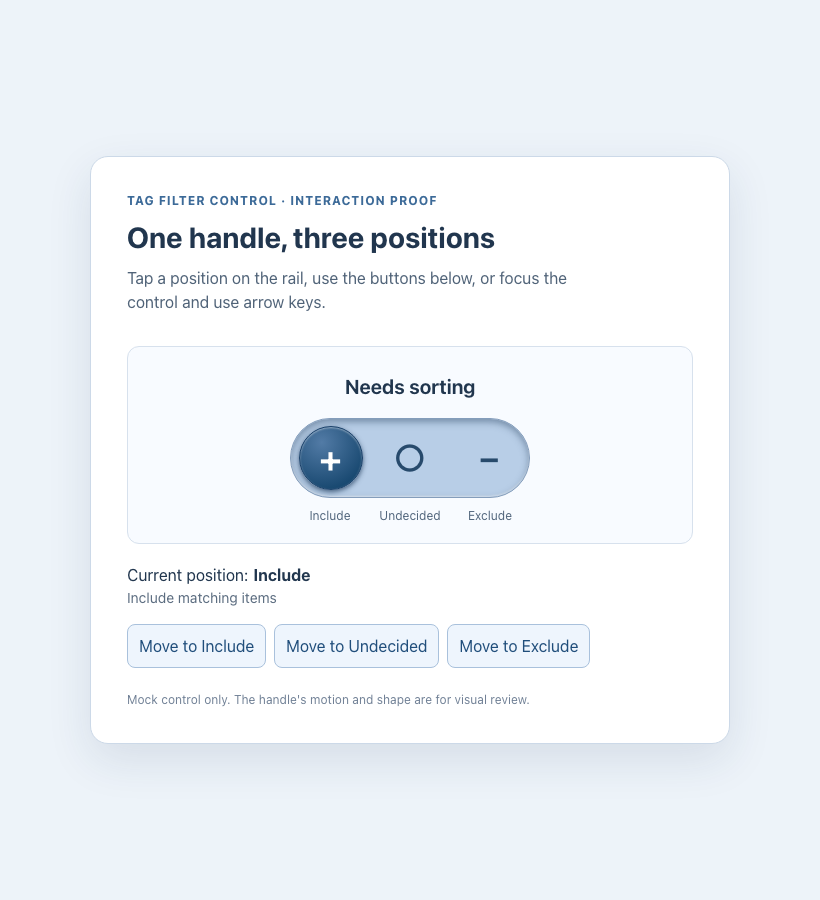
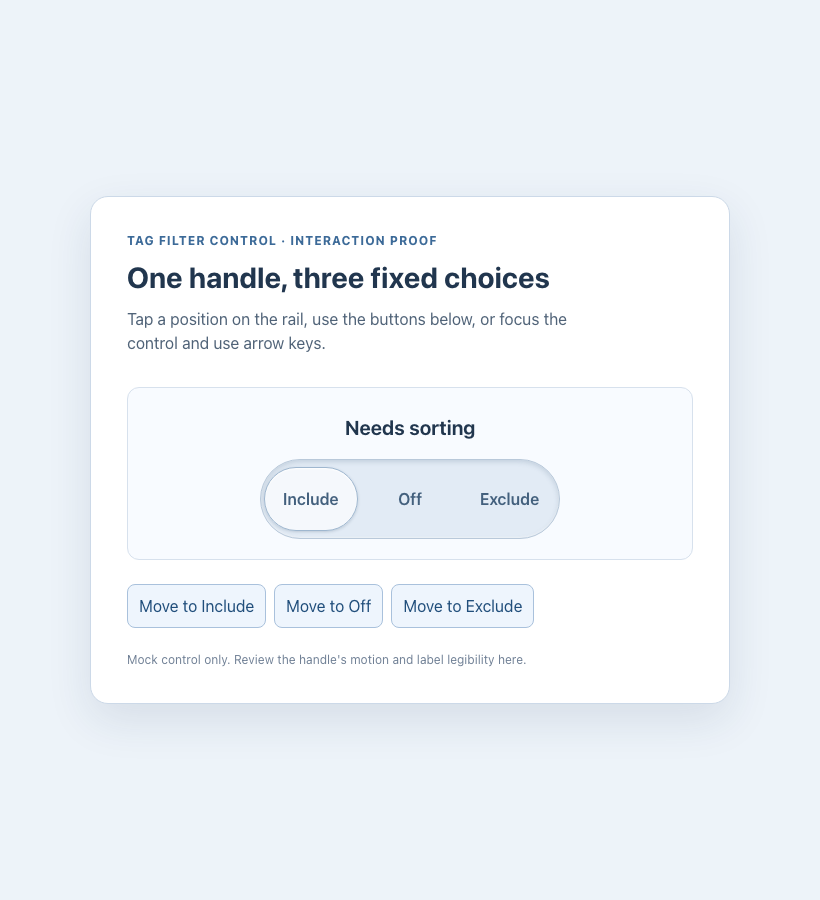
refactor(search): quiet tri-state rail with fixed labels

Changed region(s): [[0.1524, 0.4044, 0.7012, 0.7467], [0.1524, 0.2178, 0.7012, 0.4044], [0.0915, 0.7778, 0.9146, 0.84]]

diff --git a/meteor-app/imports/ui/TriStateTagToggle.css b/meteor-app/imports/ui/TriStateTagToggle.css
@@ -1,8 +1,10 @@
-/* A single dark handle travels through three detents in a recessed blue rail. */
+/* A quiet translucent capsule moves over fixed labels in one recessed rail. */
 .tri-state-rail {
-    --rail-width: 132px;
+    --rail-width: 168px;
     --rail-height: 44px;
-    --handle-size: 34px;
+    --handle-width: 52px;
+    --handle-height: 34px;
+    --label-size: 10px;
     position: relative;
     display: grid;
     grid-template-columns: repeat(3, minmax(0, 1fr));
@@ -11,42 +13,40 @@
     height: var(--rail-height);
     padding: 0;
     isolation: isolate;
-    border: 1px solid #849dbb;
+    border: 1px solid #b9c9da;
     border-radius: 999px;
-    background: #b8cee7;
-    box-shadow: inset 0 3px 7px #314b6980, inset 0 -1px 2px #fff9;
+    background: #e2ebf5;
+    box-shadow: inset 0 2px 5px #58718f38, inset 0 -1px 2px #fff9;
 }
 .tri-state-rail-large {
-    --rail-width: 240px;
+    --rail-width: 300px;
     --rail-height: 80px;
-    --handle-size: 64px;
+    --handle-width: 94px;
+    --handle-height: 64px;
+    --label-size: 16px;
 }
 .tri-state-handle {
     position: absolute;
     z-index: 1;
     top: 50%;
-    inset-inline-start: calc((100% / 3 - var(--handle-size)) / 2);
+    inset-inline-start: calc((100% / 3 - var(--handle-width)) / 2);
     display: grid;
     place-items: center;
-    width: var(--handle-size);
-    height: var(--handle-size);
+    width: var(--handle-width);
+    height: var(--handle-height);
     transform: translateY(-50%);
-    border: 1px solid #1b416a;
-    border-radius: 50%;
-    background: radial-gradient(circle at 35% 25%, #527ba6, #194971 76%);
-    box-shadow: 0 2px 5px #102c4db3, inset 0 1px 2px #ffffff7a;
-    color: #fff;
-    font-size: calc(var(--handle-size) * 0.58);
-    font-weight: 600;
-    line-height: 1;
+    border: 1px solid #9fb7cf;
+    border-radius: 999px;
+    background: #ffffffa8;
+    box-shadow: 0 1px 3px #344f6a38, inset 0 1px 2px #fff;
     pointer-events: none;
     transition: inset-inline-start 260ms cubic-bezier(0.2, 0.7, 0.2, 1);
 }
 .tri-state-rail[data-state='neutral'] .tri-state-handle {
-    inset-inline-start: calc(50% - var(--handle-size) / 2);
+    inset-inline-start: calc(50% - var(--handle-width) / 2);
 }
 .tri-state-rail[data-state='exclude'] .tri-state-handle {
-    inset-inline-start: calc(100% - (100% / 3 + var(--handle-size)) / 2);
+    inset-inline-start: calc(100% - (100% / 3 + var(--handle-width)) / 2);
 }
 .tri-state-position {
     position: relative;
@@ -67,14 +67,11 @@
     cursor: pointer;
 }
 .tri-state-position > span {
-    color: #274a6c;
-    font-size: calc(var(--handle-size) * 0.53);
+    color: #43607d;
+    font-size: var(--label-size);
     font-weight: 600;
     line-height: 1;
     pointer-events: none;
-}
-.tri-state-position:has(input:checked) > span {
-    opacity: 0;
 }
 .tri-state-rail:has(input:focus-visible) {
     outline: 3px solid #f5aa2a;

diff --git a/meteor-app/imports/ui/TriStateTagToggle.stories.tsx b/meteor-app/imports/ui/TriStateTagToggle.stories.tsx
@@ -9,36 +9,20 @@ interface Props {
     initialState: TagFilterState;
 }
 
-const meaning: Record<TagFilterState, string> = {
-    include: 'Include matching items',
-    neutral: 'Do not filter by this tag',
-    exclude: 'Exclude matching items',
-};
-
 const TriStateToggleDemo = ({ initialState }: Props): React.ReactElement => {
     const [state, setState] = useState<TagFilterState>(initialState);
     return (
         <main className="tri-demo" data-testid="tri-state-toggle-proof">
             <section className="tri-demo-card" aria-label="Three-position tag toggle demonstration">
                 <p className="tri-demo-eyebrow">TAG FILTER CONTROL · INTERACTION PROOF</p>
-                <h1>One handle, three positions</h1>
+                <h1>One handle, three fixed choices</h1>
                 <p className="tri-demo-intro">
                     Tap a position on the rail, use the buttons below, or focus the control and use arrow keys.
                 </p>
                 <div className="tri-demo-stage">
                     <div className="tri-demo-tag">Needs sorting</div>
                     <TriStateTagToggle name="Needs sorting" state={state} onChange={setState} large />
-                    <div className="tri-demo-legends" aria-hidden="true">
-                        <span>Include</span>
-                        <span>Undecided</span>
-                        <span>Exclude</span>
-                    </div>
                 </div>
-                <p className="tri-demo-state" aria-live="polite">
-                    Current position:{' '}
-                    <strong>{state === 'neutral' ? 'Undecided' : state === 'include' ? 'Include' : 'Exclude'}</strong>
-                    <span>{meaning[state]}</span>
-                </p>
                 <div className="tri-demo-actions" aria-label="Move the handle">
                     <button
                         type="button"
@@ -54,7 +38,7 @@ const TriStateToggleDemo = ({ initialState }: Props): React.ReactElement => {
                             setState('neutral');
                         }}
                     >
-                        Move to Undecided
+                        Move to Off
                     </button>
                     <button
                         type="button"
@@ -65,7 +49,9 @@ const TriStateToggleDemo = ({ initialState }: Props): React.ReactElement => {
                         Move to Exclude
                     </button>
                 </div>
-                <p className="tri-demo-note">Mock control only. The handle's motion and shape are for visual review.</p>
+                <p className="tri-demo-note">
+                    Mock control only. Review the handle's motion and label legibility here.
+                </p>
             </section>
         </main>
     );

diff --git a/tests/e2e/storybook/TriStateTagToggle.spec.ts b/tests/e2e/storybook/TriStateTagToggle.spec.ts
@@ -16,6 +16,8 @@ for (const viewport of [
             const rail = page.getByRole('radiogroup', { name: 'Filter Needs sorting' });
             await expect(rail).toHaveAttribute('data-state', state === 'undecided' ? 'neutral' : state);
             await expect(page.getByRole('radio', { checked: true })).toHaveCount(1);
+            await expect(rail.locator('.tri-state-handle')).toHaveText('');
+            await expect(rail.locator('.tri-state-position > span')).toHaveText(['Include', 'Off', 'Exclude']);
             expect(await page.evaluate(() => document.documentElement.scrollWidth - innerWidth)).toBeLessThanOrEqual(1);
             await page.screenshot({ path: testInfo.outputPath(`${state}-${viewport.name}.png`), fullPage: true });
         });
@@ -41,6 +43,7 @@ test('one handle travels through the rail for direct end-to-end changes', async 
     expect(early).toBeLessThan(midway);
     expect(midway).toBeLessThan(right);
     expect(right).toBeGreaterThan(center + 35);
+    await expect(page.locator('.tri-state-position > span')).toHaveText(['Include', 'Off', 'Exclude']);
 
     await page.getByRole('radio', { name: 'No filter for Needs sorting' }).click();
     await page.waitForTimeout(300);
@@ -63,6 +66,18 @@ test('arrow keys change the same handle and reduced motion removes transition', 
     expect(duration).toBe('0s');
     await page.keyboard.press('ArrowRight');
     await expect(page.getByRole('radio', { name: 'Exclude Needs sorting' })).toBeChecked();
+});
+
+test('logical rail positions and the handle mirror in right-to-left layout', async ({ page }) => {
+    await page.goto(story('undecided'));
+    await page.getByTestId('tri-state-toggle-proof').evaluate((element) => element.setAttribute('dir', 'rtl'));
+    await page.getByRole('button', { name: 'Move to Include' }).click();
+    await page.waitForTimeout(300);
+    const includeX = await handleX(page);
+    await page.getByRole('button', { name: 'Move to Exclude' }).click();
+    await page.waitForTimeout(300);
+    const excludeX = await handleX(page);
+    expect(includeX).toBeGreaterThan(excludeX + 100);
 });
 
 test('manager opens the dedicated interaction story', async ({ page }) => {

diff --git a/meteor-app/imports/ui/TriStateTagToggle.tsx b/meteor-app/imports/ui/TriStateTagToggle.tsx
@@ -12,7 +12,7 @@ interface Props {
 }
 
 const positions: TagFilterState[] = ['include', 'neutral', 'exclude'];
-const symbol: Record<TagFilterState, string> = { include: '+', neutral: '○', exclude: '−' };
+const labels: Record<TagFilterState, string> = { include: 'Include', neutral: 'Off', exclude: 'Exclude' };
 
 export const TriStateTagToggle = ({ name, state, onChange, large = false }: Props): React.ReactElement => (
     <span
@@ -21,9 +21,7 @@ export const TriStateTagToggle = ({ name, state, onChange, large = false }: Prop
         aria-label={'Filter ' + name}
         data-state={state}
     >
-        <span className="tri-state-handle" aria-hidden="true">
-            {symbol[state]}
-        </span>
+        <span className="tri-state-handle" aria-hidden="true" />
         {positions.map((position) => (
             <label key={position} className={'tri-state-position ' + position}>
                 <input
@@ -39,7 +37,7 @@ export const TriStateTagToggle = ({ name, state, onChange, large = false }: Prop
                         onChange(position);
                     }}
                 />
-                <span aria-hidden="true">{symbol[position]}</span>
+                <span aria-hidden="true">{labels[position]}</span>
             </label>
         ))}
     </span>

diff --git a/meteor-app/imports/ui/DirectSelectionTagPicker.stories.tsx b/meteor-app/imports/ui/DirectSelectionTagPicker.stories.tsx
@@ -149,7 +149,6 @@ const DirectSelectionTagPicker = ({
             : excluded.includes(tag.id)
             ? 'exclude'
             : 'neutral';
-        const status = state === 'include' ? 'Included' : state === 'exclude' ? 'Excluded' : '';
         return (
             <div
                 className="direct-tag-row"
@@ -164,10 +163,7 @@ const DirectSelectionTagPicker = ({
                     <span className="direct-tag-name" title={tag.name}>
                         {tag.name}
                     </span>
-                    <small title={tag.path.join(' / ')}>
-                        {tag.path.slice(0, -1).join(' / ')}
-                        {status && <em className={'direct-tag-status ' + status.toLowerCase()}> · {status}</em>}
-                    </small>
+                    <small title={tag.path.join(' / ')}>{tag.path.slice(0, -1).join(' / ')}</small>
                 </span>
                 <TriStateTagToggle
                     name={tag.name}

diff --git a/meteor-app/imports/ui/TriStateTagToggle.stories.css b/meteor-app/imports/ui/TriStateTagToggle.stories.css
@@ -52,30 +52,11 @@
     font-size: 20px;
     font-weight: 650;
 }
-.tri-demo-legends {
-    display: grid;
-    grid-template-columns: repeat(3, 1fr);
-    width: 240px;
-    margin-top: 10px;
-    color: #52667d;
-    font-size: 12px;
-    text-align: center;
-}
-.tri-demo-state {
-    display: flex;
-    gap: 5px;
-    flex-wrap: wrap;
-    margin: 22px 0 18px;
-}
-.tri-demo-state span {
-    flex-basis: 100%;
-    color: #5c6d80;
-    font-size: 14px;
-}
 .tri-demo-actions {
     display: flex;
     gap: 8px;
     flex-wrap: wrap;
+    margin-top: 24px;
 }
 .tri-demo-actions button {
     min-height: 44px;

diff --git a/meteor-app/imports/ui/DirectSelectionTagPicker.css b/meteor-app/imports/ui/DirectSelectionTagPicker.css
@@ -216,17 +216,6 @@
     color: #728095;
     font-size: 11px;
 }
-.direct-tag-status {
-    font-style: normal;
-    font-size: 11px;
-    font-weight: 600;
-}
-.direct-tag-status.included {
-    color: #135b9c;
-}
-.direct-tag-status.excluded {
-    color: #aa4729;
-}
 .direct-empty button {
     min-height: 40px;
     margin: 0 8px;

diff --git a/docs/visual-review/tri-state-toggle-2026-09-28/REVIEW.md b/docs/visual-review/tri-state-toggle-2026-09-28/REVIEW.md
@@ -7,10 +7,10 @@
 
 | State | Desktop 1280 × 800 | iPad 820 × 900 | Judgment |
 | --- | --- | --- | --- |
-| Undecided | [screenshot](screenshots/undecided-desktop.png) — pass | [screenshot](screenshots/undecided-ipad.png) — pass | One dark round handle occupies the center detent. |
-| Include | [screenshot](screenshots/include-desktop.png) — pass | [screenshot](screenshots/include-ipad.png) — pass | The same handle occupies logical start. |
-| Exclude | [screenshot](screenshots/exclude-desktop.png) — pass | [screenshot](screenshots/exclude-ipad.png) — pass | The same handle occupies logical end. |
+| Off | [screenshot](screenshots/undecided-desktop.png) — pass | [screenshot](screenshots/undecided-ipad.png) — pass | Quiet translucent handle sits over fixed Off text. |
+| Include | [screenshot](screenshots/include-desktop.png) — pass | [screenshot](screenshots/include-ipad.png) — pass | Same unlabeled handle moves to fixed Include text. |
+| Exclude | [screenshot](screenshots/exclude-desktop.png) — pass | [screenshot](screenshots/exclude-ipad.png) — pass | Same unlabeled handle moves to fixed Exclude text. |
 
-I opened and operated the live story, including repeat clicks between positions, and inspected the settled appearances at readable scale. The handle is one physical-looking element over a recessed blue rail; separate buttons do not gain raised active styling. The automated motion check measured the handle at early, intermediate, and final positions for a direct Include-to-Exclude change, and confirmed direction and ordering. Direct rail clicks, keyboard arrows, and reduced-motion behavior were checked. The three settled screenshots and the ordinary-size Search-panel screenshots were inspected for containment and legibility. There was no document overflow or Storybook error overlay.
+I opened and operated the live story, including repeated direct changes between ends, and inspected the settled appearances at readable scale. The same translucent capsule moves in one recessed rail; the three printed labels stay in place and no per-stop border or active button highlight appears. The automated motion check measured early, intermediate, and final handle positions for direct Include-to-Exclude travel. Direct rail clicks, keyboard arrows, RTL geometry, and reduced-motion behavior were checked. The ordinary-size Search-panel screenshot was inspected for quiet repeated controls and row legibility. No document overflow or Storybook error overlay appeared.
 
-The focused test suite passed **9/9**, and the combined focused plus Search mock regression run passed **22/22**. TypeScript, Prettier, and Storybook-source ESLint passed. This validates implementation behavior, not the user's aesthetic preference. The explanatory words around the enlarged control are provisional; their eventual placement needs design review.
+The focused test suite passed **10/10**, and the combined focused plus Search mock regression run passed **23/23**. TypeScript, Prettier, and Storybook-source ESLint passed. These checks validate implementation behavior and layout, not the user's design approval. This remains a visual hypothesis for user review.

diff --git a/docs/visual-review/tri-state-toggle-2026-09-28/CONTRACT.md b/docs/visual-review/tri-state-toggle-2026-09-28/CONTRACT.md
@@ -1,7 +1,7 @@
 # Isolated tri-state toggle visual contract
 
-This mock-only Storybook story isolates the three-position tag control after a review found that the Search proof still looked like three segmented buttons. The one handle must be unmistakable in every settled state and visibly travel inside a recessed rail when moving directly between Include and Exclude or through Undecided. Each of the three rail positions must be directly tappable; radio arrow keys must change the same handle. The motion should take place at normal interaction speed, and reduced-motion preference should remove the transition. The story provides dedicated repeatable buttons so reviewers can inspect motion without opening the full Search panel.
+This mock-only Storybook story isolates the three-position tag control after a review found that the Search proof looked like three segmented buttons. One translucent, **unlabeled** capsule must visibly travel inside a single uninterrupted recessed rail. `Include`, `Off`, and `Exclude` remain fixed and legible inside the rail in every state, including through the handle. The neutral state should be quiet enough to repeat down a list without drawing attention. There are no external Included/Excluded words on tag rows.
 
-Review each of Undecided, Include, and Exclude at desktop 1280 × 800 and iPad-width 820 × 900. The control must remain legible, not clip or overflow, and retain one selected radio state. The same shared control must also fit the Search mock at its ordinary size.
+Each rail position is directly tappable, radio arrow keys change the same handle, and logical positions mirror in RTL. Direct Include-to-Exclude motion should look continuous at normal interaction speed; reduced-motion preference removes the transition. The story provides dedicated repeatable buttons to inspect motion without opening the full Search panel. The buttons are demonstration scaffolding, not part of the control.
 
-The story's explanatory labels and buttons are review scaffolding. Placement of words such as Included/Excluded in the eventual Search UI remains unresolved and requires user/design judgment. No production app, data, filter behavior, or route is part of this proof.
+Review each settled state at desktop 1280 × 800 and iPad-width 820 × 900. The control must remain legible, not clip or overflow, and retain one selected radio state. The shared control must also fit the Search mock at ordinary size. No production app, data, filter behavior, or route is part of this proof.

diff --git a/docs/visual-review/three-state-tag-picker-2026-09-28/REVIEW.md b/docs/visual-review/three-state-tag-picker-2026-09-28/REVIEW.md
@@ -6,7 +6,7 @@
 **LAN Storybook:** `http://mini-m4.local:48377/?path=/story/prototypes-direct-selection-tag-picker--browse`.  
 **Status:** implementation proof passes this visual contract; production integration awaits design-owner and user review.
 
-The tag controls now use the shared recessed-rail handle reviewed in the [isolated toggle proof](../tri-state-toggle-2026-09-28/REVIEW.md). These screenshots reflect that revision. The placement of explanatory Included/Excluded words remains a design question, not an accepted visual decision.
+The tag controls now use the shared recessed rail and translucent unlabeled handle reviewed in the [isolated toggle proof](../tri-state-toggle-2026-09-28/REVIEW.md). The three labels remain fixed inside the rail, and external Included/Excluded row words have been removed. These screenshots reflect that revision; user visual approval remains pending.
 
 Screenshots were inspected at readable scale, including the final slider/switch treatment, panel containment, hierarchy, legibility, control affordances, and desktop/tablet continuity. The panel deliberately overlays mock results while the compact applied summary remains accessible. It does not claim phone support.
 
